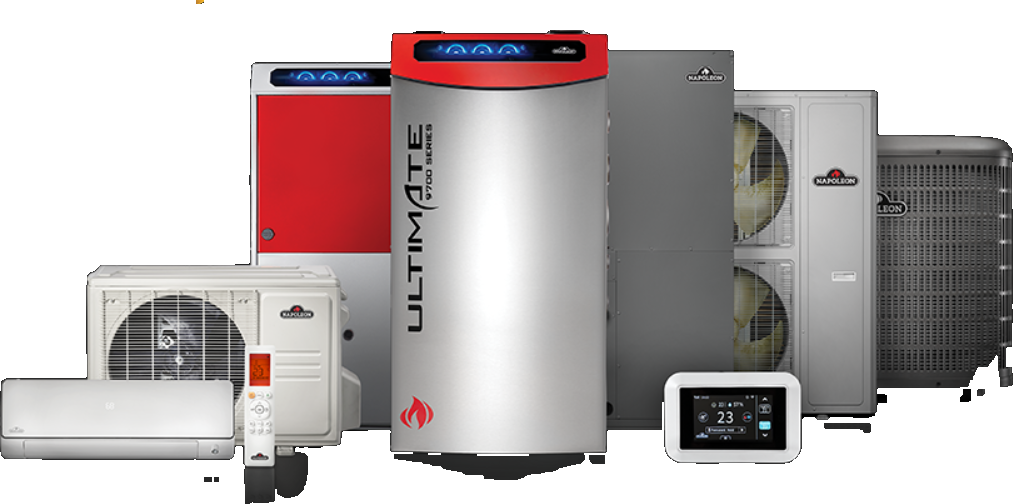
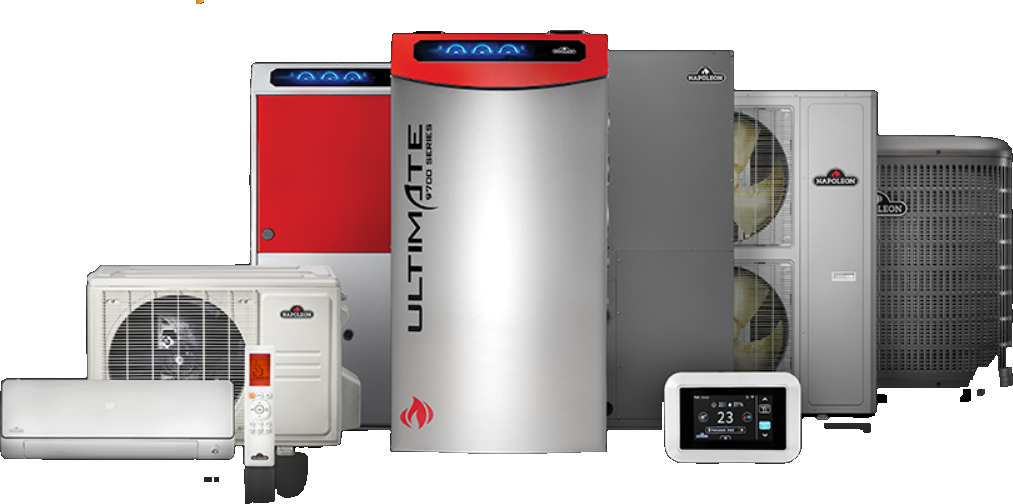
Ductless multi-zone: pick indoor head style + size per zone; clean furnace base in Napoleon hero
Claude-Session: https://claude.ai/code/session_01LAW1tA1YjyeHa2KRBjPEgT

Changed region(s): [[0.3672, 0.8929, 0.612, 0.9524]]

diff --git a/index.html b/index.html
@@ -865,7 +865,7 @@ function vHome(){
   <section class="hero">
     <div class="flamebg" aria-hidden="true"></div>
     <img class="hero-lineup lu-cont" src="/lineup-continental.png?v=2" alt="Continental HVAC equipment lineup" loading="eager">
-    <img class="hero-lineup lu-nap" src="/lineup-napoleon.png" alt="Napoleon HVAC equipment lineup" loading="eager">
+    <img class="hero-lineup lu-nap" src="/lineup-napoleon.png?v=2" alt="Napoleon HVAC equipment lineup" loading="eager">
     <div class="wrap">
       <span class="made"><span class="flags"><img src="/flag-us.jpg" alt="United States flag" width="30" height="19"><img src="/flag-ca.jpg" alt="Canadian flag" width="30" height="19"></span> Made in the Americas</span>
       <div class="eyebrow" style="color:var(--accent-2)">${brand==="napoleon"?"Napoleon HVAC · Authorized Dealer Portal":"Exclusive online distributor · Continental HVAC"}</div>
@@ -1163,6 +1163,16 @@ async function submitReg(){
 /* ---------------- Build your system (sizing by the ClawSoft engine, priced from our catalog) ---------------- */
 let buildMode="ductless";
 const ROOMN=['Living room','Kitchen','Primary bedroom','Bedroom','Bedroom','Office','Family room','Basement','Sunroom','Bonus room','Dining room','Den'];
+let lastRooms=[];
+const HEAD_OPT={
+  wall:{label:"High-Wall",skus:{6:"cdhas26bb06i",9:"cdhas26bb09i",12:"cdhas26bb12i",18:"cdhas26bb18i",24:"cdhas26bb24i",33:"cdhas26bb33i"}},
+  cassette:{label:"4-Way Cassette",skus:{12:"cdhas4cbb12",18:"cdhas4cbb18"}},
+  console:{label:"Floor Console",skus:{9:"cdhascbb09",12:"cdhascbb12",18:"cdhascbb18"}},
+  slim:{label:"Slim Duct",skus:{9:"cdhashdbb09",12:"cdhashdbb12",18:"cdhashdbb18",24:"cdhashdbb24"}}
+};
+const HEAD_STYLES=["wall","cassette","console","slim"];
+function hSizes(style){return Object.keys(HEAD_OPT[style].skus).map(Number).sort((a,b)=>a-b)}
+function hNearest(style,k){const s=hSizes(style);return s.reduce((a,b)=>Math.abs(b-k)<Math.abs(a-k)?b:a,s[0])}
 function setBMsg(t,c){const e=document.getElementById("bMsg");if(e){e.textContent=t||"";e.className="comsg "+(c||"")}}
 function vBuild(){return `<div class="wrap"><section>
   <div class="crumb"><a href="#/">Home</a> / <span>Build your system</span></div>
@@ -1207,6 +1217,7 @@ function suggestRooms(){
 async function runDuctless(){
   const zip=val("bZip");
   const rooms=[...document.querySelectorAll('#roomBox .mroom')].map(r=>({name:(r.querySelector('.rNm').value||'Room').trim(),area:(r.querySelector('.rAr').value||'').trim()})).filter(r=>Number(r.area)>0);
+  lastRooms=rooms;
   if(!/^\d{5}$/.test(zip)){setBMsg("Enter a 5-digit ZIP code.","err");return}
   if(!rooms.length){setBMsg("Add at least one room with its square footage, or tap Suggest rooms.","err");return}
   setBMsg("Sizing your system…","info");
@@ -1229,6 +1240,7 @@ async function runDucted(){
 }
 function renderEstimate(d){
   const el=document.getElementById("bResult");if(!el)return;
+  if(d.type==="ductless"&&Array.isArray(d.heads)&&d.heads.length>1){return renderMZ(d,el);}
   const lines=(d.lines||[]).map(l=>`<div class="r"><span>${coEsc(mdl(l.name))}${l.qty>1?(" &times;"+l.qty):""}${l.detail?(" <span style='color:var(--muted)'>· "+coEsc(l.detail)+"</span>"):""}</span><span class="tnum">${fmt(l.unit*l.qty)}</span></div>`).join("");
   const load=d.loads&&d.loads.heating?`<p style="color:var(--muted);font-size:.8rem;margin:.5rem 0 0">Estimated load: ${Math.round(d.loads.heating).toLocaleString()} BTU heating${d.loads.cooling?(", "+Math.round(d.loads.cooling).toLocaleString()+" BTU cooling"):""}.</p>`:"";
   const head=d.type==="ducted"?("Ducted matched system · "+d.tons+" ton"):("Ductless · "+d.rooms+" room"+(d.rooms>1?"s":"")+" · "+(d.heads?d.heads.length:0)+" head"+((d.heads&&d.heads.length>1)?"s":""));
@@ -1241,6 +1253,59 @@ function renderEstimate(d){
    <p style="color:var(--muted);font-size:.75rem;margin:.5rem 0 0">Sizing estimate for planning; final selection confirmed with Skip The Warehouse. Freight and sales tax are handled separately.</p>`;
 }
 function addEstimate(items){(items||[]).forEach(i=>{cart[i.sku]=(cart[i.sku]||0)+(i.qty||1)});save("sc_cart",cart);renderCart();bump();openCart();}
+let mzOut=[],mzSel=[],mzRooms=[];
+function renderMZ(d,el){
+  mzOut=(d.items||[]).filter(i=>/^cdhamb/.test(i.sku));
+  const n=(d.heads||[]).length; mzRooms=[]; mzSel=[];
+  for(let i=0;i<n;i++){
+    const nm=(lastRooms[i]&&lastRooms[i].name)?lastRooms[i].name:("Zone "+(i+1));
+    const rec=d.heads[i]||9;
+    mzRooms.push({name:nm,rec:rec});
+    mzSel.push({style:"wall",size:hNearest("wall",rec)});
+  }
+  const outLines=mzOut.map(it=>{const p=byId(it.sku);if(!p)return"";return `<div class="r"><span>${coEsc(mdl(p.name))}${it.qty>1?(" &times;"+it.qty):""} <span style="color:var(--muted)">· ${coEsc(mdl(p.model))}</span></span><span class="tnum">${fmt(p.price*(it.qty||1))}</span></div>`;}).join("");
+  const rows=mzRooms.map((r,i)=>mzRow(r,i)).join("");
+  const load=d.loads&&d.loads.heating?`<p style="color:var(--muted);font-size:.8rem;margin:.5rem 0 0">Estimated load: ${Math.round(d.loads.heating).toLocaleString()} BTU heating${d.loads.cooling?(", "+Math.round(d.loads.cooling).toLocaleString()+" BTU cooling"):""}.</p>`:"";
+  el.innerHTML=`<div class="cosum" style="margin-top:1rem">
+     <div style="font-family:var(--head);text-transform:uppercase;letter-spacing:.03em;margin-bottom:.5rem">Ductless multi-zone · ${n} zone${n>1?"s":""}</div>
+     ${outLines}
+     <div class="r tot"><span>System total (Guest)</span><span class="tnum" id="mzTotal">$0</span></div>
+   </div>
+   <div style="margin-top:1rem">
+     <div style="font-family:var(--head);text-transform:uppercase;letter-spacing:.03em;font-size:.95rem">Choose your indoor units</div>
+     <p style="color:var(--muted);font-size:.8rem;margin:.15rem 0 .7rem">One head per zone. We pre-picked a size for each room from the load — change the style or size to suit.</p>
+     <div id="mzRows">${rows}</div>
+   </div>${load}
+   <button class="btn" style="justify-content:center;margin-top:.9rem;width:100%" onclick="mzAdd()">Add system to cart</button>
+   <p style="color:var(--muted);font-size:.75rem;margin:.5rem 0 0">Sizing estimate for planning; final selection confirmed with Skip The Warehouse. Freight and sales tax are handled separately.</p>`;
+  mzRecalc();
+}
+function mzRow(r,i){
+  const sel=mzSel[i];
+  const styleOpts=HEAD_STYLES.map(s=>`<option value="${s}"${s===sel.style?" selected":""}>${HEAD_OPT[s].label}</option>`).join("");
+  return `<div class="mzitem" style="display:flex;gap:.55rem;align-items:flex-end;flex-wrap:wrap;border:1px solid var(--line);border-radius:8px;padding:.6rem .65rem;margin-bottom:.5rem">
+     <div style="flex:1 1 128px;min-width:118px"><div style="font-family:var(--head);font-weight:600">${coEsc(r.name)}</div><div style="color:var(--muted);font-size:.72rem">Sized ~${r.rec}K</div></div>
+     <div class="field" style="min-width:0;flex:0 0 auto"><label>Style</label><select onchange="mzStyle(${i},this.value)">${styleOpts}</select></div>
+     <div class="field" style="min-width:0;flex:0 0 auto"><label>Size</label><select id="mzSz${i}" onchange="mzSize(${i},this.value)">${mzSizeOpts(i)}</select></div>
+     <div class="tnum" id="mzP${i}" style="flex:0 0 auto;min-width:62px;text-align:right;font-family:var(--head);font-weight:700"></div>
+   </div>`;
+}
+function mzSizeOpts(i){const sel=mzSel[i];return hSizes(sel.style).map(k=>`<option value="${k}"${k===sel.size?" selected":""}>${k}K</option>`).join("");}
+function mzStyle(i,v){mzSel[i].style=v;mzSel[i].size=hNearest(v,mzRooms[i].rec);const sz=document.getElementById("mzSz"+i);if(sz)sz.innerHTML=mzSizeOpts(i);mzRecalc();}
+function mzSize(i,v){mzSel[i].size=Number(v);mzRecalc();}
+function mzHeadSku(i){const s=mzSel[i];return HEAD_OPT[s.style].skus[s.size];}
+function mzRecalc(){
+  let tot=0;
+  mzOut.forEach(it=>{const p=byId(it.sku);if(p)tot+=p.price*(it.qty||1);});
+  mzSel.forEach((s,i)=>{const p=byId(mzHeadSku(i));const el=document.getElementById("mzP"+i);if(p){tot+=p.price;if(el)el.textContent=fmt(p.price);}});
+  const t=document.getElementById("mzTotal");if(t)t.textContent=fmt(tot);
+}
+function mzAdd(){
+  const items=mzOut.map(it=>({sku:it.sku,qty:it.qty||1}));
+  const counts={};mzSel.forEach((s,i)=>{const sku=mzHeadSku(i);counts[sku]=(counts[sku]||0)+1;});
+  for(const sku in counts) items.push({sku,qty:counts[sku]});
+  addEstimate(items);
+}
 let dropinInstance=null,coMethod="card",coAmount=0;
 function coEsc(s){return String(s==null?"":s).replace(/[&<>"']/g,c=>({"&":"&amp;","<":"&lt;",">":"&gt;",'"':"&quot;","'":"&#39;"}[c]))}
 function coVal(id){const el=document.getElementById(id);return el?el.value.trim():""}
